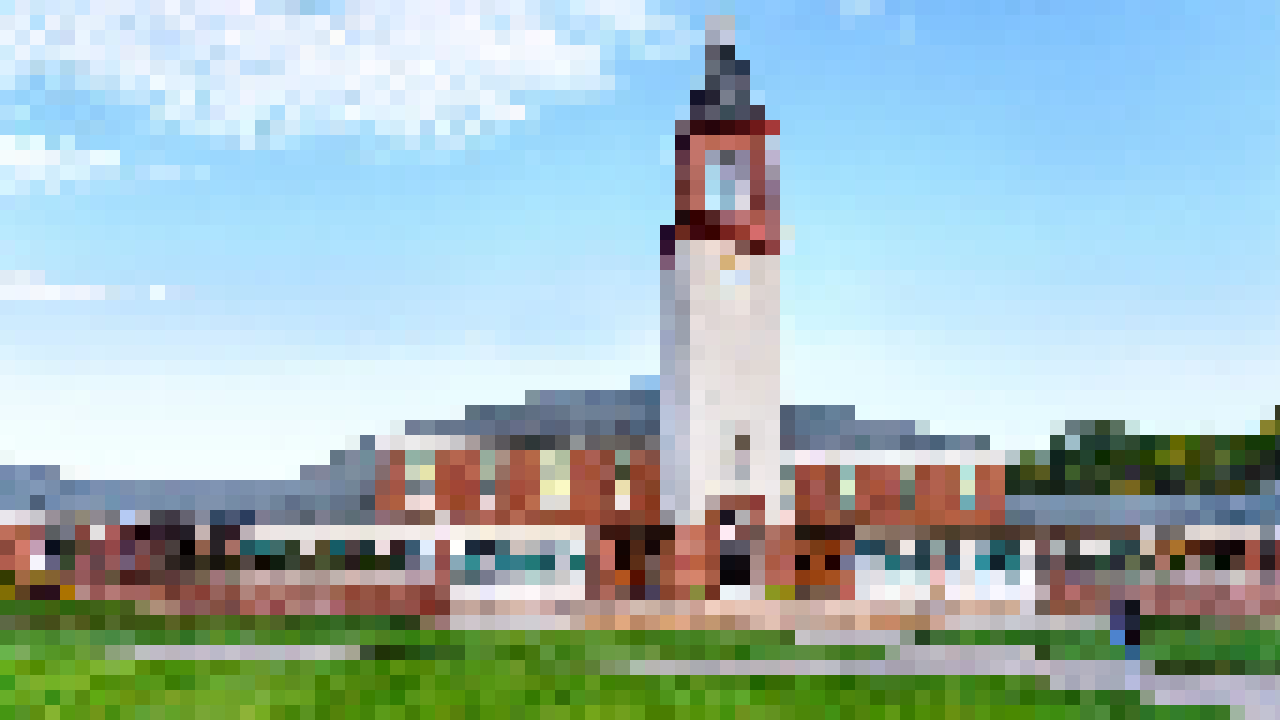
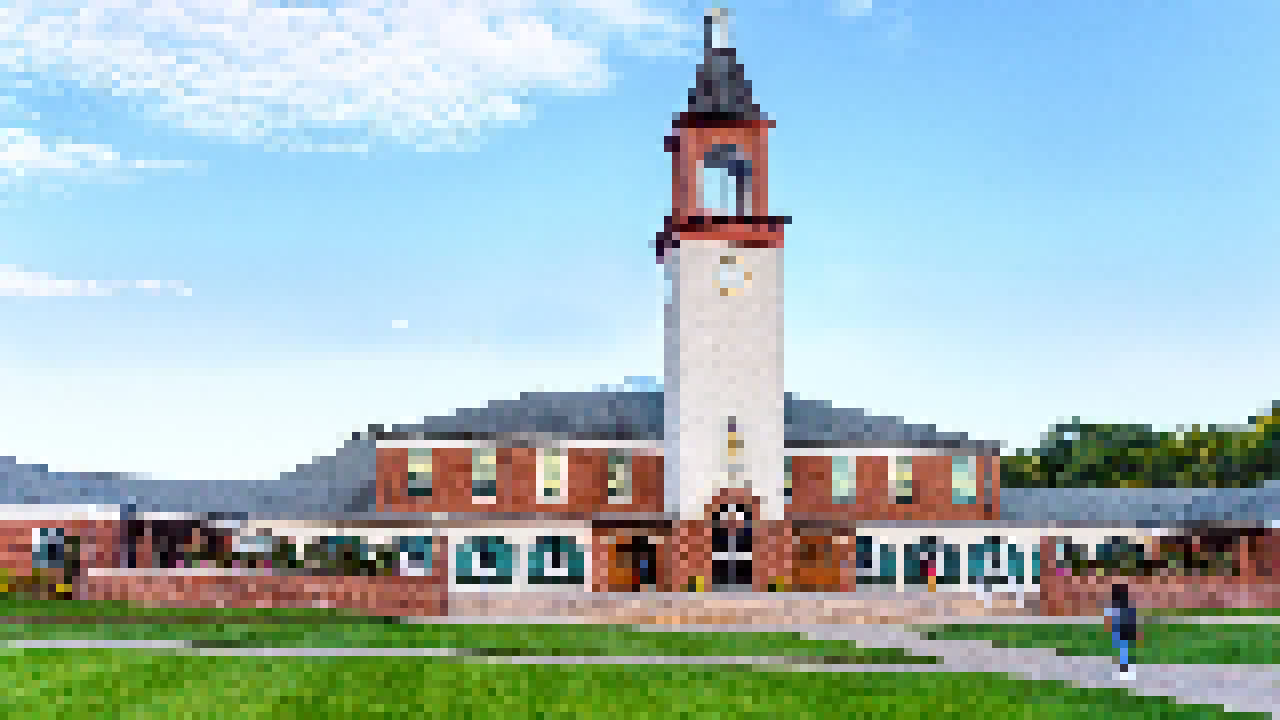
made background image for quad map

diff --git a/src/Level/Map.java b/src/Level/Map.java
@@ -2,9 +2,11 @@ package Level;
 
 import Engine.Config;
 import Engine.GraphicsHandler;
+import Engine.ImageLoader;
 import Engine.ScreenManager;
 import Utils.Point;
 
+import java.awt.image.BufferedImage;
 import java.io.File;
 import java.io.FileNotFoundException;
 import java.io.FileWriter;
@@ -60,6 +62,9 @@ public abstract class Map {
 
     // if set to false, camera will not move as player moves
     protected boolean adjustCamera = true;
+
+    // optional background image for the map
+    protected BufferedImage backgroundImage;
 
     // map tiles in map that are animated
     protected ArrayList<MapTile> animatedMapTiles;
@@ -426,7 +431,9 @@ public abstract class Map {
 
     public void draw(GraphicsHandler graphicsHandler) {
         camera.draw(graphicsHandler);
-
+    }
+    
+    public void drawProjectiles(GraphicsHandler graphicsHandler) {
         // draw active projectiles and melee hitboxes (debug visuals)
         for (ProjectileAttack p : projectileAttacks) {
             p.draw(graphicsHandler, this);
@@ -434,6 +441,18 @@ public abstract class Map {
         for (MeleeAttack m : meleeAttacks) {
             m.draw(graphicsHandler, this);
         }
+    }
+    
+    public void setBackgroundImage(String imagePath) {
+        try {
+            this.backgroundImage = ImageLoader.load(imagePath);
+        } catch (RuntimeException e) {
+            System.out.println("Map: Failed to load background image: " + imagePath);
+        }
+    }
+    
+    public BufferedImage getBackgroundImage() {
+        return backgroundImage;
     }
 
     public int getEndBoundX() { return endBoundX; }

diff --git a/src/Screens/PlayLevelScreen.java b/src/Screens/PlayLevelScreen.java
@@ -347,6 +347,17 @@ public class PlayLevelScreen extends Screen implements PlayerListener {
         switch (playLevelScreenState) {
             case RUNNING:
                 map.draw(graphicsHandler);
+                
+                // Draw background image (over map tiles, under players/projectiles)
+                BufferedImage bgImage = map.getBackgroundImage();
+                if (bgImage != null) {
+                    int w = ScreenManager.getScreenWidth();
+                    int h = ScreenManager.getScreenHeight();
+                    graphicsHandler.drawImage(bgImage, 0, 0, w, h);
+                }
+                
+                // Draw projectiles over the background image
+                map.drawProjectiles(graphicsHandler);
 
                 // --- Player 1 ---
                 player.draw(graphicsHandler);
@@ -494,7 +505,6 @@ public class PlayLevelScreen extends Screen implements PlayerListener {
 
                 // Draw power-up selection boxes
                 drawPowerUpSelectionUI(graphicsHandler);
-                
 
                 break;
 

diff --git a/src/Maps/QuadMap.java b/src/Maps/QuadMap.java
@@ -12,6 +12,7 @@ public class QuadMap extends Map {
     public QuadMap() {
         super("quad_map.txt", new CommonTileset());
         this.playerStartPosition = getMapTile(2, 11).getLocation();
+        setBackgroundImage("mapImages/pixQuad.png");
     }
 
 }
